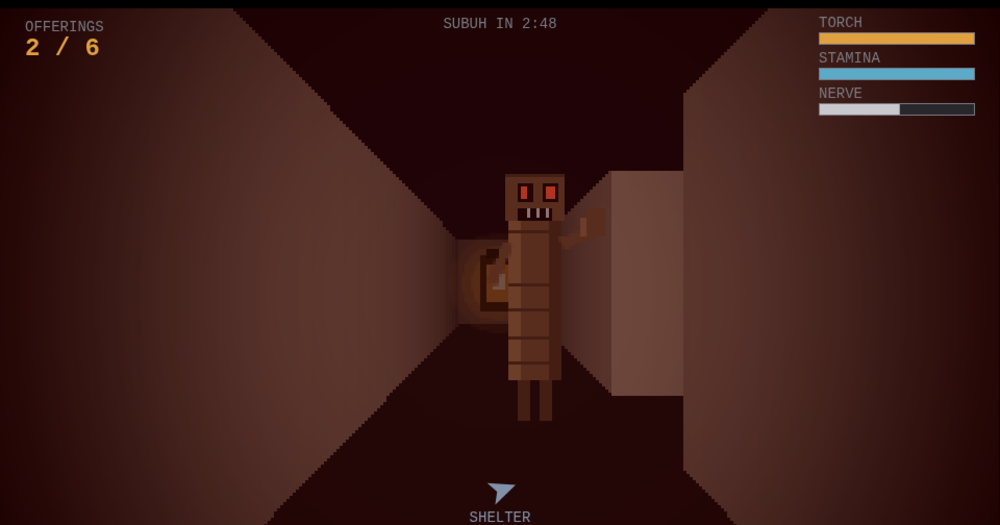
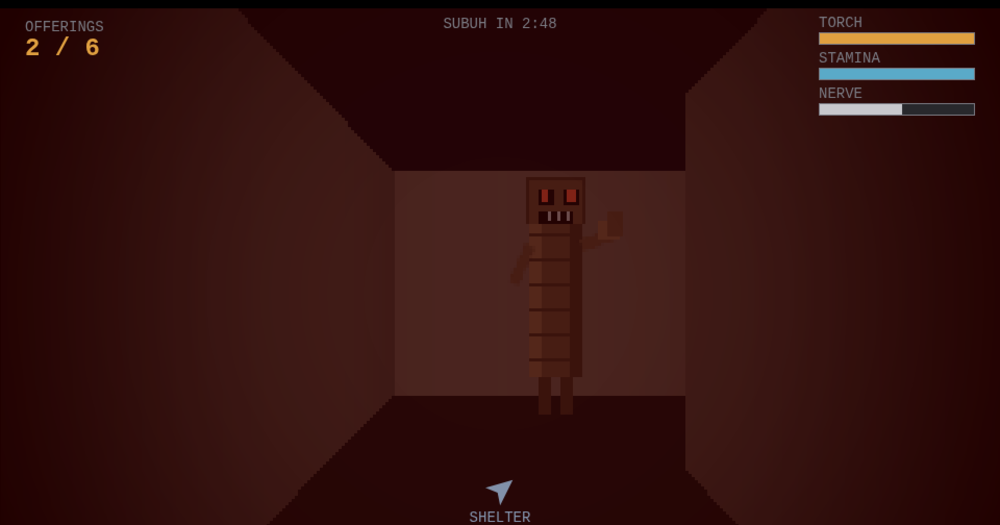
feat: rename the card to Tung Tung Tung Sahorror
Card heading, aria-label, image alt, JSON-LD name and the meta/og/twitter
descriptions. Card screenshot regenerated from the retitled build.

Changed region(s): [[0.248, 0.1829, 0.744, 0.9143], [0.465, 0.9143, 0.527, 0.9448]]

diff --git a/index.html b/index.html
@@ -5,7 +5,7 @@
   <meta name="viewport" content="width=device-width, initial-scale=1" />
 
   <title>Games by Andre Nijman · free browser games</title>
-  <meta name="description" content="Free browser games by Andre Nijman, built without an engine or asset packs. Play TOPOUT, a competitive online block stacker, Garden Defenders 2, a lane-defense tower game, OVERPOP, a round-based tower defense game with 25 towers and 100 rounds, and Tung Tung Tung Sahur, a first-person horror game — straight in your browser." />
+  <meta name="description" content="Free browser games by Andre Nijman, built without an engine or asset packs. Play TOPOUT, a competitive online block stacker, Garden Defenders 2, a lane-defense tower game, OVERPOP, a round-based tower defense game with 25 towers and 100 rounds, and Tung Tung Tung Sahorror, a first-person horror game — straight in your browser." />
   <meta name="theme-color" content="#141110" />
   <meta name="color-scheme" content="dark" />
   <link rel="canonical" href="https://games.andrenijman.com/" />
@@ -13,12 +13,12 @@
   <meta property="og:type" content="website" />
   <meta property="og:site_name" content="Games by Andre Nijman" />
   <meta property="og:title" content="Games by Andre Nijman · free browser games" />
-  <meta property="og:description" content="Free browser games: TOPOUT, a competitive block stacker with online VS, Garden Defenders 2, a lane-defense tower game, OVERPOP, round-based tower defense with 25 towers and 100 rounds, and Tung Tung Tung Sahur, a first-person horror game. Nothing to download." />
+  <meta property="og:description" content="Free browser games: TOPOUT, a competitive block stacker with online VS, Garden Defenders 2, a lane-defense tower game, OVERPOP, round-based tower defense with 25 towers and 100 rounds, and Tung Tung Tung Sahorror, a first-person horror game. Nothing to download." />
   <meta property="og:url" content="https://games.andrenijman.com/" />
   <meta property="og:image" content="https://games.andrenijman.com/og-image.png" />
   <meta name="twitter:card" content="summary_large_image" />
   <meta name="twitter:title" content="Games by Andre Nijman · free browser games" />
-  <meta name="twitter:description" content="Free browser games: TOPOUT, a competitive block stacker with online VS, Garden Defenders 2, a lane-defense tower game, OVERPOP, round-based tower defense with 25 towers and 100 rounds, and Tung Tung Tung Sahur, a first-person horror game. Nothing to download." />
+  <meta name="twitter:description" content="Free browser games: TOPOUT, a competitive block stacker with online VS, Garden Defenders 2, a lane-defense tower game, OVERPOP, round-based tower defense with 25 towers and 100 rounds, and Tung Tung Tung Sahorror, a first-person horror game. Nothing to download." />
   <meta name="twitter:image" content="https://games.andrenijman.com/og-image.png" />
 
   <script type="application/ld+json">
@@ -76,7 +76,7 @@
           "position": 4,
           "item": {
             "@type": "VideoGame",
-            "name": "Tung Tung Tung Sahur",
+            "name": "Tung Tung Tung Sahorror",
             "url": "https://tung.andrenijman.com/",
             "description": "A free first-person raycaster horror game in a single HTML file. Gather six offerings in the dark and carry them home before the call to Subuh, while a drumming creature hunts by sight, sound and your own panic. Originally by tim.",
             "genre": ["Horror", "Survival"],
@@ -287,14 +287,14 @@
             </div>
           </a>
 
-          <a class="game" href="https://tung.andrenijman.com" aria-label="Play Tung Tung Tung Sahur, a free browser first-person horror game">
+          <a class="game" href="https://tung.andrenijman.com" aria-label="Play Tung Tung Tung Sahorror, a free browser first-person horror game">
             <div class="frame">
               <div class="bar"><span class="dot"></span><span class="dot"></span><span class="dot"></span><span class="url">tung.andrenijman.com</span></div>
-              <img class="shot" src="tung.png" alt="Tung Tung Tung Sahur in play: the drumming creature waiting in a torchlit corridor, with the offerings, torch, stamina and nerve HUD" width="1000" height="525" loading="lazy" />
+              <img class="shot" src="tung.png" alt="Tung Tung Tung Sahorror in play: the drumming creature waiting in a torchlit corridor, with the offerings, torch, stamina and nerve HUD" width="1000" height="525" loading="lazy" />
             </div>
             <div class="caption">
               <div>
-                <h2 class="name">Tung Tung Tung Sahur</h2>
+                <h2 class="name">Tung Tung Tung Sahorror</h2>
                 <div class="meta">First-person horror · gather six offerings and get home before dawn</div>
                 <div class="meta">originally by tim</div>
               </div>
